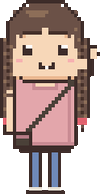
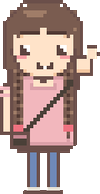
feat(insync): rework nana's face and braids after feedback
The first pass read dark and yellow: the skin is now a warm ivory, the
outline a soft warm brown and the top a rosier pink. The face tapers
gently into a rounded chin (soft_face flag) instead of the square bob
jaw, and the braids now drape over the shoulders in front of the chest
down to a tie at the waist, drawn after the torso but before the arms
and strap, so raised arms pass in front and the bag covers the tips.
momo/mint stay pixel-identical (0 drifted sheets).

diff --git a/tools/insync-sprites/generate_sprites.py b/tools/insync-sprites/generate_sprites.py
@@ -83,24 +83,26 @@ PALETTES = {
     },
     # The second character: dark warm-brown twin braids with wispy center-parted
     # bangs, a dusty-pink sleeveless top, a black crossbody strap and jeans —
-    # read off the reference photo. Same silhouette as momo; the style flags
-    # below drive the structural differences.
+    # read off the reference photo, then brightened: the first pass read too
+    # dark/yellow (near-black outline over a yellow skin), so the skin is a
+    # warm ivory, the outline a soft warm brown and the top a rosier pink.
+    # Same silhouette as momo; the style flags below drive the differences.
     "nana": {
-        "outline": "#3d2c29",
-        "skin": "#f7d7b8",
-        "skin_shadow": "#eab890",
-        "hair": "#6b5147",
-        "hair_shadow": "#453029",
-        "hair_light": "#8d6e58",
-        "hoodie": "#e3a6ab",
-        "hoodie_shadow": "#c98b93",
-        "hoodie_deep": "#b57b85",
-        "accent": "#e0636f",
+        "outline": "#6b4f4a",
+        "skin": "#ffe3c9",
+        "skin_shadow": "#f3c7a1",
+        "hair": "#7a5c50",
+        "hair_shadow": "#523a34",
+        "hair_light": "#a07d68",
+        "hoodie": "#f2b7bd",
+        "hoodie_shadow": "#dba0a8",
+        "hoodie_deep": "#c48892",
+        "accent": "#ef7280",
         "pants": "#6f89b8",
         "pants_shadow": "#54709f",
         "shoe": "#e8e2d6",
-        "blush": "#f6b1b1",
-        "eye": "#3d2c29",
+        "blush": "#f79fa4",
+        "eye": "#5d443f",
         "white": "#ffffff",
         "zzz": "#9db8d9",
         "star": "#ffd98a",
@@ -124,17 +126,21 @@ class Style:
     on the character name, so a palette variant of nana needs no code.
     """
 
-    braids: bool = False  # twin braids hanging over the shoulders
+    braids: bool = False  # twin braids draping over the shoulders, in front
     center_part: bool = False  # wispy bangs with a gap at the center
     sleeveless: bool = False  # bare arms, no drawstrings or pocket
     strap: bool = False  # black crossbody strap over the top
+    soft_face: bool = False  # melon-seed taper instead of the round bob jaw
     ahoge: bool = True  # the little curl on top
 
 
 STYLES = {
     "momo": Style(),
     "momo-mint": Style(),
-    "nana": Style(braids=True, center_part=True, sleeveless=True, strap=True, ahoge=False),
+    "nana": Style(
+        braids=True, center_part=True, sleeveless=True, strap=True,
+        soft_face=True, ahoge=False,
+    ),
 }
 
 # ---------------------------------------------------------------------------
@@ -247,18 +253,44 @@ def draw_hair_back(g: Grid, p: Pose) -> None:
 
 def draw_head(g: Grid, p: Pose, style: Style) -> None:
     dy, dx = p.bob + p.jump, p.lean
-    # skull: x14..33, y8..26
-    for y in range(9 + dy, 26 + dy):
-        g.hline(14 + dx, 33 + dx, y, "skin")
-    g.hline(16 + dx, 31 + dx, 7 + dy, "skin")
-    g.hline(15 + dx, 32 + dx, 8 + dy, "skin")
-    g.hline(15 + dx, 32 + dx, 26 + dy, "skin_shadow")
-    # jaw outline
-    g.hline(17 + dx, 30 + dx, 27 + dy, "outline")
-    g.hline(16 + dx, 16 + dx, 26 + dy, "outline")
-    g.hline(31 + dx, 31 + dx, 26 + dy, "outline")
+    if style.soft_face:
+        # melon-seed face: full width through the eyes, then a gentle
+        # two-step taper to a soft rounded chin — no hard jaw corners
+        for y in range(9 + dy, 18 + dy):
+            g.hline(14 + dx, 33 + dx, y, "skin")
+        g.hline(16 + dx, 31 + dx, 7 + dy, "skin")
+        g.hline(15 + dx, 32 + dx, 8 + dy, "skin")
+        for y, x0 in ((18, 15), (19, 15), (20, 16), (21, 16), (22, 17), (23, 17)):
+            xr = 47 - x0
+            g.hline(x0 + dx, xr + dx, y + dy, "skin")
+            g.plot(x0 - 1 + dx, y + dy, "outline")
+            g.plot(xr + 1 + dx, y + dy, "outline")
+        # rounded chin
+        g.plot(17 + dx, 24 + dy, "outline")
+        g.plot(18 + dx, 24 + dy, "skin_shadow")
+        g.hline(19 + dx, 28 + dx, 24 + dy, "skin")
+        g.plot(29 + dx, 24 + dy, "skin_shadow")
+        g.plot(30 + dx, 24 + dy, "outline")
+        g.plot(19 + dx, 25 + dy, "outline")
+        g.plot(20 + dx, 25 + dy, "skin_shadow")
+        g.hline(21 + dx, 26 + dx, 25 + dy, "skin")
+        g.plot(27 + dx, 25 + dy, "skin_shadow")
+        g.plot(28 + dx, 25 + dy, "outline")
+        g.hline(21 + dx, 26 + dx, 26 + dy, "outline")
+        g.hline(23 + dx, 24 + dx, 27 + dy, "outline")
+    else:
+        # skull: x14..33, y8..26
+        for y in range(9 + dy, 26 + dy):
+            g.hline(14 + dx, 33 + dx, y, "skin")
+        g.hline(16 + dx, 31 + dx, 7 + dy, "skin")
+        g.hline(15 + dx, 32 + dx, 8 + dy, "skin")
+        g.hline(15 + dx, 32 + dx, 26 + dy, "skin_shadow")
+        # jaw outline
+        g.hline(17 + dx, 30 + dx, 27 + dy, "outline")
+        g.hline(16 + dx, 16 + dx, 26 + dy, "outline")
+        g.hline(31 + dx, 31 + dx, 26 + dy, "outline")
     draw_hair_front(g, p, dx, dy, style)
-    draw_face(g, p, dx, dy)
+    draw_face(g, p, dx, dy, style)
 
 
 def draw_hair_front(g: Grid, p: Pose, dx: int, dy: int, style: Style) -> None:
@@ -297,7 +329,6 @@ def draw_hair_front(g: Grid, p: Pose, dx: int, dy: int, style: Style) -> None:
         g.vline(14 + dx, 11 + dy, 17 + dy, "hair")
         g.vline(34 + dx, 9 + dy, 17 + dy, "hair")
         g.vline(33 + dx, 11 + dy, 17 + dy, "hair")
-        draw_braids(g, p, dx, dy)
     else:
         # side locks framing the face, ending at the jaw
         g.vline(13 + dx, 9 + dy, 22 + dy, "hair")
@@ -348,58 +379,74 @@ def draw_hair_front(g: Grid, p: Pose, dx: int, dy: int, style: Style) -> None:
         g.plot(24 + dx, 4 + dy, "outline")
 
 
-def draw_braids(g: Grid, p: Pose, dx: int, dy: int) -> None:
-    """Twin braids hanging from behind the ears down to the waist.
+def draw_braids(g: Grid, p: Pose) -> None:
+    """Twin braids draping over the shoulders, in front of the chest.
 
-    Three hair columns with the outer edge outlined; the twist reads from a
-    shadow pixel that travels across the strand on a 4-row cycle, with a
-    highlight on the opposite side. Braids hang *behind* bare arms and hands
-    (a raised arm covers them), so a pixel the arm already drew as skin wins.
-    In the walk cycle each braid follows the step by one pixel and they swing
-    in opposite directions.
+    A short strand continues each side lock down beside the face, then the
+    braid crosses the shoulder and hangs in front of the torso to a tie just
+    above the hem. Drawn after the torso but before the arms and the strap:
+    a raised arm passes in front of its strand, the strap's top end crosses
+    over the drape, and the bag covers the tip; the head (chin, jaw) is drawn
+    last over the strand's top. The twist reads from a shadow pixel that
+    travels across the 3-wide strand on a 4-row cycle, with a highlight on
+    the opposite side. In the walk cycle the drape follows the step by one
+    pixel, opposite on the two sides.
     """
     sway = (p.prop_phase % 2) if p.legs in ("walk_a", "walk_b") else 0
-    tie_y = 38
+    dx = p.lean
+    dy = p.bob + p.jump
+    tie_y = 40
     twist = [0, 1, 2, 1]  # shadow column index within the 3-wide strand
     for side in ("l", "r"):
-        ox = dx + (sway if side == "l" else -sway)
+        sx = dx + (sway if side == "l" else -sway)
         if side == "l":
-            cols = (11 + ox, 12 + ox, 13 + ox)
-            outer = 10 + ox
+            conn = (13 + dx, 14 + dx)  # beside the face, ear to jaw
+            conn_wide = 15 + dx  # the lock widens where the jaw tapers in
+            conn_edge = 12 + dx
+            drape = (15 + sx, 16 + sx, 17 + sx)  # over the shoulder, in front
+            edge = 14 + sx
         else:
-            cols = (34 + ox, 35 + ox, 36 + ox)
-            outer = 37 + ox
+            conn = (34 + dx, 33 + dx)
+            conn_wide = 32 + dx
+            conn_edge = 35 + dx
+            drape = (32 + sx, 31 + sx, 30 + sx)
+            edge = 33 + sx
 
-        def put(x: int, y: int, color: str) -> None:
-            # braids pass behind skin (bare arms, hands) but over everything else
-            if g.px.get((x, y)) != "skin":
-                g.plot(x, y, color)
-
-        for i, y in enumerate(range(15, tie_y)):
+        # strand down the side of the face, continuing the side lock
+        for y in range(18, 24):
+            for x in conn:
+                g.plot(x, y + dy, "hair")
+            if y >= 22:
+                g.plot(conn_wide, y + dy, "hair")
+        g.vline(conn_edge, 16 + dy, 23 + dy, "outline")
+        # drape in front of the chest, down to the tie
+        for i, y in enumerate(range(24, tie_y)):
             phase = i % 4
-            for x in cols:
-                put(x, y + dy, "hair")
-            put(cols[twist[phase]], y + dy, "hair_shadow")
+            for x in drape:
+                g.plot(x, y + dy, "hair")
+            g.plot(drape[twist[phase]], y + dy, "hair_shadow")
             if phase == 0:
-                put(cols[0], y + dy, "hair_light")
+                g.plot(drape[0], y + dy, "hair_light")
             elif phase == 2:
-                put(cols[2], y + dy, "hair_light")
-        g.vline(outer, 15 + dy, tie_y - 1 + dy, "outline")
-        # hair tie and the tapering tip (skin still wins)
-        for x in cols:
-            put(x, tie_y + dy, "accent")
-            put(x, tie_y + 1 + dy, "accent")
-        put(cols[1], tie_y + 2 + dy, "hair")
-        put(cols[1], tie_y + 3 + dy, "outline")
+                g.plot(drape[2], y + dy, "hair_light")
+            g.plot(edge, y + dy, "outline")
+        # hair tie and the tapering tip
+        for x in drape:
+            g.plot(x, tie_y + dy, "accent")
+            g.plot(x, tie_y + 1 + dy, "accent")
+        g.plot(drape[1], tie_y + 2 + dy, "hair")
+        g.plot(drape[1], tie_y + 3 + dy, "outline")
 
 
-def draw_face(g: Grid, p: Pose, dx: int, dy: int) -> None:
+def draw_face(g: Grid, p: Pose, dx: int, dy: int, style: Style) -> None:
     eye_y = 17 + dy
     if p.eyes == "open":
         for ex in (17, 28):
             g.rect(ex + dx, eye_y, ex + 2 + dx, eye_y + 2, "eye")
             g.plot(ex + 2 + dx, eye_y, "white")
             g.plot(ex + 1 + dx, eye_y, "white")
+            if style.soft_face:
+                g.plot(ex + 2 + dx, eye_y + 1, "white")
     elif p.eyes == "wide":
         for ex in (17, 28):
             g.rect(ex + dx, eye_y - 1, ex + 2 + dx, eye_y + 3, "eye")
@@ -434,8 +481,13 @@ def draw_face(g: Grid, p: Pose, dx: int, dy: int) -> None:
         g.plot(26 + dx, mouth_y, "eye")
         g.plot(24 + dx, mouth_y + 1, "white")
     if p.blush:
-        g.hline(15 + dx, 16 + dx, 21 + dy, "blush")
-        g.hline(31 + dx, 32 + dx, 21 + dy, "blush")
+        if style.soft_face:
+            # on the tapering cheek, a row under each eye
+            g.hline(16 + dx, 18 + dx, 20 + dy, "blush")
+            g.hline(29 + dx, 31 + dx, 20 + dy, "blush")
+        else:
+            g.hline(15 + dx, 16 + dx, 21 + dy, "blush")
+            g.hline(31 + dx, 32 + dx, 21 + dy, "blush")
 
 
 def draw_torso(g: Grid, p: Pose, style: Style) -> None:
@@ -969,6 +1021,8 @@ def render_frame(pose: Pose, pal: dict[str, str], style: Style) -> Image.Image:
     draw_hair_back(g, pose)
     draw_legs(g, pose)
     draw_torso(g, pose, style)
+    if style.braids:
+        draw_braids(g, pose)
     draw_arm(g, pose, "l", style)
     draw_arm(g, pose, "r", style)
     if style.strap:
